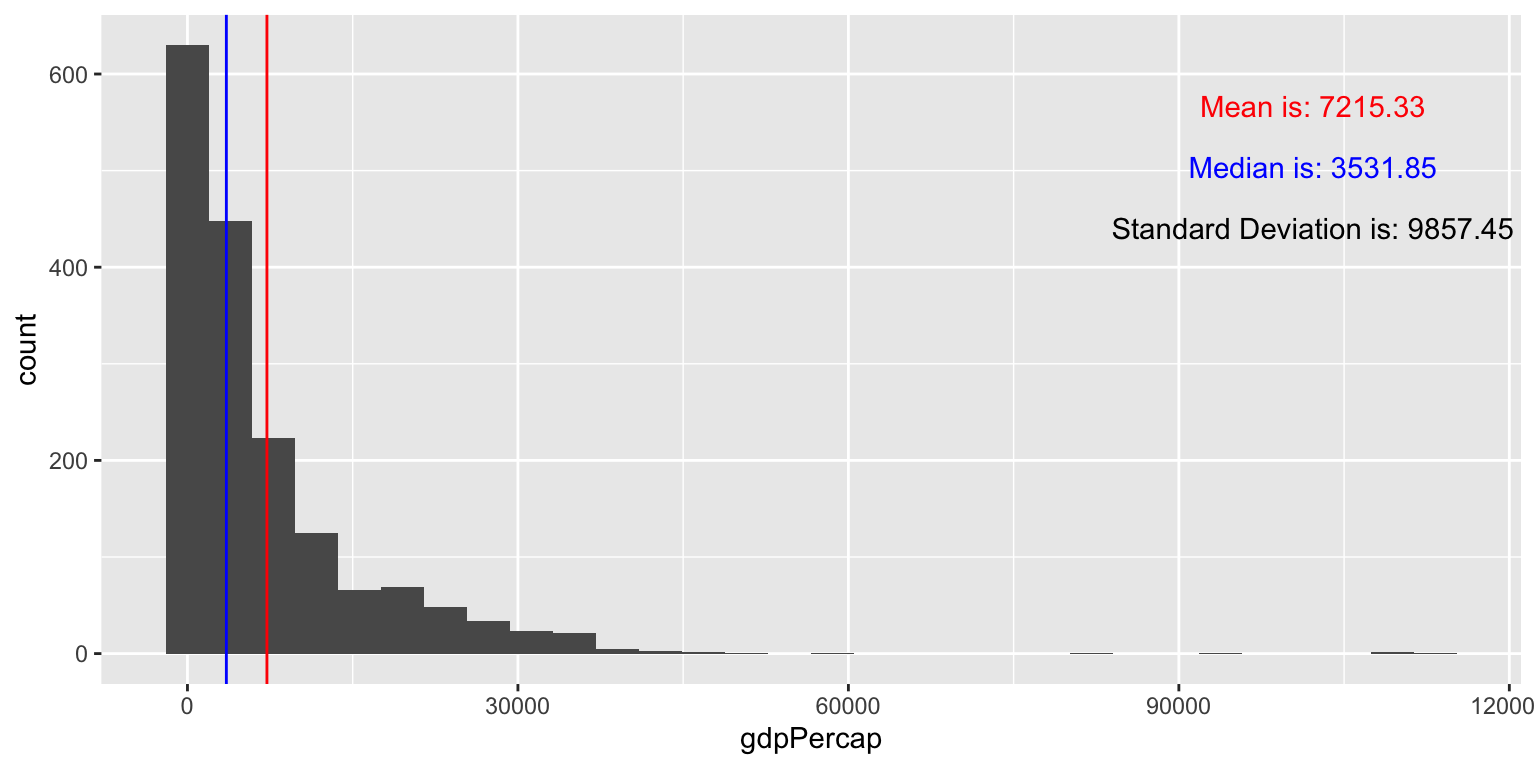
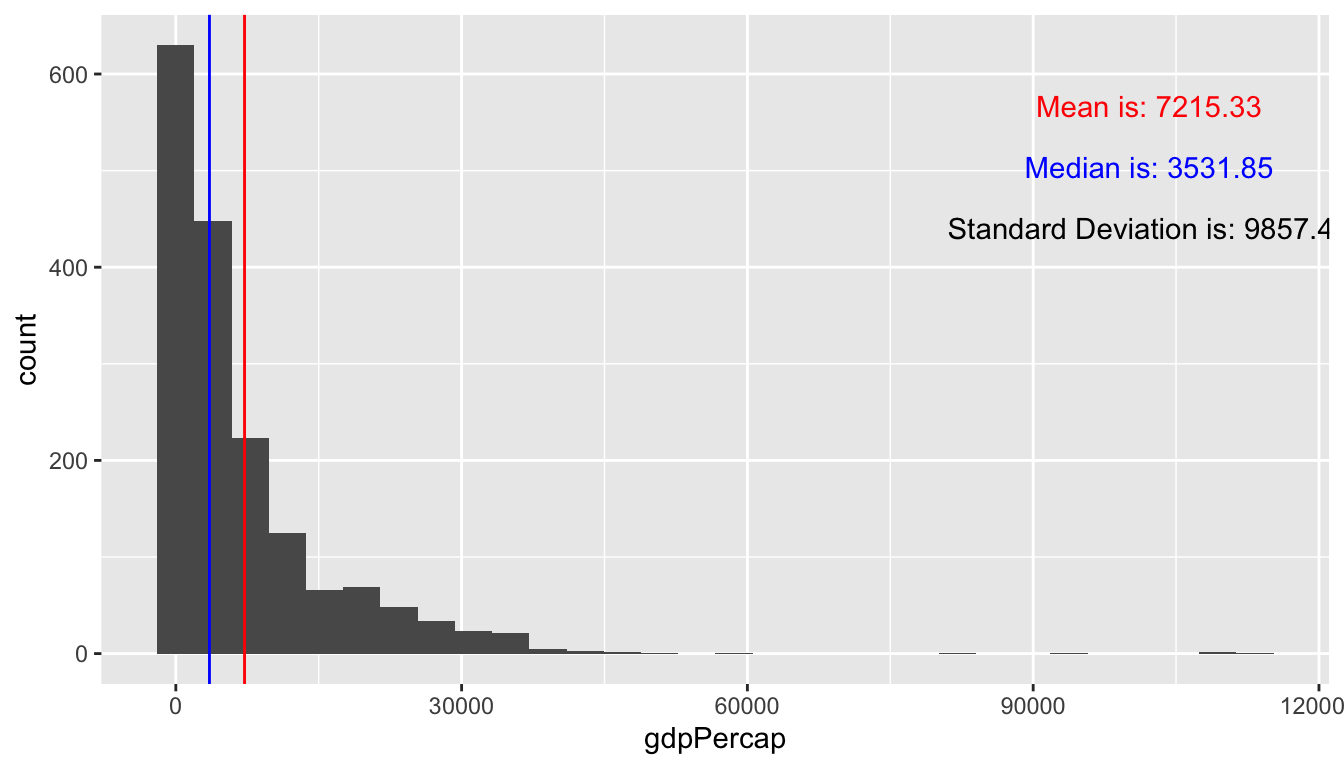
fixed subsetting errors in scatterplot, and finished vignette

diff --git a/docs/articles/ggexpress-vignette.html b/docs/articles/ggexpress-vignette.html
@@ -104,7 +104,7 @@
 <div id="data-gapminder" class="section level2">
 <h2 class="hasAnchor">
 <a href="#data-gapminder" class="anchor"></a>Data: gapminder</h2>
-<p>The <code><a href="https://rdrr.io/pkg/gapminder/man/gapminder.html">gapminder::gapminder</a></code> dataset will be used to explore the basic functionality of <code>gghist</code> and <code>ggscatter</code>.</p>
+<p>The <code><a href="https://rdrr.io/pkg/gapminder/man/gapminder.html">gapminder::gapminder</a></code> dataset will be used to explore the basic functionality of each of the plots.</p>
 <div class="sourceCode" id="cb2"><pre class="sourceCode r"><code class="sourceCode r"><span id="cb2-1"><a href="#cb2-1"></a><span class="kw"><a href="https://rdrr.io/r/base/library.html">library</a></span>(gapminder)</span>
 <span id="cb2-2"><a href="#cb2-2"></a>gapminder<span class="op">::</span>gapminder</span>
 <span id="cb2-3"><a href="#cb2-3"></a><span class="co">#&gt; # A tibble: 1,704 x 6</span></span>
@@ -124,19 +124,61 @@
 <div id="obtain-a-histogram-and-basic-summary-statistics-with-gghist" class="section level3">
 <h3 class="hasAnchor">
 <a href="#obtain-a-histogram-and-basic-summary-statistics-with-gghist" class="anchor"></a>Obtain a histogram and basic summary statistics with gghist()</h3>
+<blockquote>
 <p>This plot displays the position of the mean and median of life expectancy from the gapminder dataset. In addition, the plot also displays the value of the mean, median and standard deviation.</p>
+</blockquote>
 <div class="sourceCode" id="cb3"><pre class="sourceCode r"><code class="sourceCode r"><span id="cb3-1"><a href="#cb3-1"></a><span class="kw"><a href="../reference/gghist.html">gghist</a></span>(<span class="dt">data =</span> gapminder, <span class="dt">variable =</span> lifeExp)</span>
 <span id="cb3-2"><a href="#cb3-2"></a><span class="co">#&gt; `stat_bin()` using `bins = 30`. Pick better value with `binwidth`.</span></span>
 <span id="cb3-3"><a href="#cb3-3"></a><span class="co">#&gt; `stat_bin()` using `bins = 30`. Pick better value with `binwidth`.</span></span></code></pre></div>
 <p><img src="ggexpress-vignette_files/figure-html/gghist_lifeExp-1.png" width="576" style="display: block; margin: auto;"></p>
+<blockquote>
+<p>This plot shows the distribution of gdp per capita.</p>
+</blockquote>
 <div class="sourceCode" id="cb4"><pre class="sourceCode r"><code class="sourceCode r"><span id="cb4-1"><a href="#cb4-1"></a><span class="kw"><a href="../reference/gghist.html">gghist</a></span>(<span class="dt">data =</span> gapminder, <span class="dt">variable =</span> gdpPercap)</span>
 <span id="cb4-2"><a href="#cb4-2"></a><span class="co">#&gt; `stat_bin()` using `bins = 30`. Pick better value with `binwidth`.</span></span>
 <span id="cb4-3"><a href="#cb4-3"></a><span class="co">#&gt; `stat_bin()` using `bins = 30`. Pick better value with `binwidth`.</span></span></code></pre></div>
-<p><img src="ggexpress-vignette_files/figure-html/gghist_gdpPercap-1.png" width="768" style="display: block; margin: auto;"></p>
+<p><img src="ggexpress-vignette_files/figure-html/gghist_gdpPercap-1.png" width="672" style="display: block; margin: auto;"></p>
 </div>
-<div id="obtain-a-scatter-and-correlation-with-ggscatter" class="section level3">
+<div id="obtain-a-scatterplot-with-scatter_express" class="section level3">
 <h3 class="hasAnchor">
-<a href="#obtain-a-scatter-and-correlation-with-ggscatter" class="anchor"></a>Obtain a scatter and correlation with ggscatter()</h3>
+<a href="#obtain-a-scatterplot-with-scatter_express" class="anchor"></a>Obtain a scatterplot with scatter_express()</h3>
+<blockquote>
+<p>The <code><a href="../reference/scatter_express.html">scatter_express()</a></code> returns a basic scatterplot but also returns the correlation coefficient between the two variables.</p>
+</blockquote>
+<div class="sourceCode" id="cb5"><pre class="sourceCode r"><code class="sourceCode r"><span id="cb5-1"><a href="#cb5-1"></a><span class="kw"><a href="../reference/scatter_express.html">scatter_express</a></span>(<span class="dt">df =</span> iris, </span>
+<span id="cb5-2"><a href="#cb5-2"></a>                <span class="dt">xval =</span> Petal.Length, </span>
+<span id="cb5-3"><a href="#cb5-3"></a>                <span class="dt">yval =</span> Petal.Width)</span></code></pre></div>
+<p><img src="ggexpress-vignette_files/figure-html/scatter_iris-1.png" width="576" style="display: block; margin: auto;"></p>
+<blockquote>
+<p>In addition, scatter_express() provides the option display the data on a log transformed scale for data with non-linear relationships.</p>
+</blockquote>
+<div class="sourceCode" id="cb6"><pre class="sourceCode r"><code class="sourceCode r"><span id="cb6-1"><a href="#cb6-1"></a><span class="kw"><a href="../reference/scatter_express.html">scatter_express</a></span>(<span class="dt">df =</span> iris, </span>
+<span id="cb6-2"><a href="#cb6-2"></a>                <span class="dt">xval =</span> Sepal.Length, </span>
+<span id="cb6-3"><a href="#cb6-3"></a>                <span class="dt">yval =</span> Sepal.Width,</span>
+<span id="cb6-4"><a href="#cb6-4"></a>                <span class="dt">x_transform =</span> <span class="ot">TRUE</span>,</span>
+<span id="cb6-5"><a href="#cb6-5"></a>                <span class="dt">y_transform =</span> <span class="ot">TRUE</span>)</span></code></pre></div>
+<p><img src="ggexpress-vignette_files/figure-html/log-1.png" width="576" style="display: block; margin: auto;"></p>
+</div>
+<div id="time-series-with-ts_plot" class="section level3">
+<h3 class="hasAnchor">
+<a href="#time-series-with-ts_plot" class="anchor"></a>Time Series with ts_plot()</h3>
+<blockquote>
+<p>This function, ts_plot(), is able to take in a time stamped dataframe and convert it into a time series object. The time series is then decomposed into its trend, seasonsal and white noise components.</p>
+</blockquote>
+<div class="sourceCode" id="cb7"><pre class="sourceCode r"><code class="sourceCode r"><span id="cb7-1"><a href="#cb7-1"></a> </span>
+<span id="cb7-2"><a href="#cb7-2"></a>time &lt;-<span class="st"> </span><span class="kw"><a href="https://rdrr.io/r/base/c.html">c</a></span>(<span class="st">"1950 Q1"</span>, <span class="st">"1950 Q2"</span>, <span class="st">"1950 Q3"</span>, <span class="st">"1950 Q4"</span>, </span>
+<span id="cb7-3"><a href="#cb7-3"></a>          <span class="st">"1951 Q1"</span>, <span class="st">"1951 Q2"</span>, <span class="st">"1951 Q3"</span>, <span class="st">"1951 Q4"</span>,</span>
+<span id="cb7-4"><a href="#cb7-4"></a>          <span class="st">"1952 Q1"</span>, <span class="st">"1952 Q2"</span>, <span class="st">"1952 Q3"</span>, <span class="st">"1952 Q4"</span>)</span>
+<span id="cb7-5"><a href="#cb7-5"></a> earnings &lt;-<span class="st"> </span><span class="kw"><a href="https://rdrr.io/r/base/c.html">c</a></span>(<span class="fl">0.71</span>, <span class="fl">0.63</span>, <span class="fl">0.82</span>, <span class="fl">0.91</span>, </span>
+<span id="cb7-6"><a href="#cb7-6"></a>               <span class="fl">0.51</span>, <span class="fl">1.31</span>, <span class="fl">1.82</span>, <span class="fl">2.01</span>,</span>
+<span id="cb7-7"><a href="#cb7-7"></a>               <span class="fl">0.63</span>, <span class="fl">0.82</span>, <span class="fl">0.91</span>, <span class="fl">0.71</span>)</span>
+<span id="cb7-8"><a href="#cb7-8"></a>ts_data &lt;-<span class="st"> </span>tibble<span class="op">::</span><span class="kw"><a href="https://tibble.tidyverse.org/reference/tibble.html">tibble</a></span>(time, earnings)</span>
+<span id="cb7-9"><a href="#cb7-9"></a></span>
+<span id="cb7-10"><a href="#cb7-10"></a><span class="kw"><a href="../reference/ts_plot.html">ts_plot</a></span>(ts_data, <span class="st">"earnings"</span>, <span class="dv">4</span>)</span>
+<span id="cb7-11"><a href="#cb7-11"></a><span class="co">#&gt; Registered S3 method overwritten by 'quantmod':</span></span>
+<span id="cb7-12"><a href="#cb7-12"></a><span class="co">#&gt;   method            from</span></span>
+<span id="cb7-13"><a href="#cb7-13"></a><span class="co">#&gt;   as.zoo.data.frame zoo</span></span></code></pre></div>
+<p><img src="ggexpress-vignette_files/figure-html/ts_plot-1.png" width="576" style="display: block; margin: auto;"></p>
 </div>
 </div>
   </div>

diff --git a/docs/index.html b/docs/index.html
@@ -76,7 +76,8 @@
 <div class="page-header"><h1 class="hasAnchor">
 <a href="#ggexpress" class="anchor"></a>ggexpress</h1></div>
 <!-- badges: start -->
-<!-- badges: end -->
+
+<p><a href="https://codecov.io/gh/UBC-MDS/ggexpress"><img src="https://codecov.io/gh/UBC-MDS/ggexpress/branch/master/graph/badge.svg" alt="codecov"></a> <!-- badges: end --></p>
 <p>This package allows users to quickly create plots to facilitate exploratory data analysis along with providing additional summary statistics about the data such as mean, median, and correlation.</p>
 <div id="installation" class="section level2">
 <h2 class="hasAnchor">
@@ -104,7 +105,7 @@
 <li><p><strong>Fast Fourier transforms:</strong> This function is missing from many summary functions and can be really useful for some cases. The user will be able to input time series data and the function will automatically implement frequency analysis and provide a frequency vs amplitude plot.</p></li>
 <li><p><strong>Scatter plot:</strong> Here you will take your own spin on 2-d scatter plots. It is often the case that we don’t know the distribution of the given points. This is why this function will group the points by each of the x and y axes and provide two histograms alongside the scatter plot. This way, you will have greater intuition on the properties of the data.</p></li>
 <li><p><strong>Histogram:</strong> This function takes in a dataframe and column name and creates a histogram. In addition, summary statistics of the input variable are overlayed onto the plot (e.g. mean and median vertical lines) and the sample standard deviation.</p></li>
-<li><p><strong>Time series analysis:</strong> This is a function that takes in a local path to the time series data, decomposes the timeseries and finally visualizes the raw data along with decomposition components. Except annual time series, the function will return a graph with 4 subplots, which includes the raw data, estimated trend, seasonal/cyclic and noise components.</p></li>
+<li><p><strong>Time series analysis:</strong> This is a function that takes in a dataframe to the time series data, decomposes the timeseries and finally visualizes the raw data along with decomposition components. Except annual time series, the function will return a graph with 4 subplots, which includes the raw data, estimated trend, seasonal/cyclic and noise components.</p></li>
 </ul>
 </div>
 <div id="dependencies" class="section level3">
@@ -134,6 +135,19 @@
 <p>Creates a scatterplot and calculates correlation values for two numeric variables</p>
 <div class="sourceCode" id="cb3"><pre class="sourceCode r"><code class="sourceCode r"><span id="cb3-1"><a href="#cb3-1"></a><span class="kw"><a href="reference/scatter_express.html">scatter_express</a></span>(<span class="dt">df =</span> iris, <span class="dt">xval =</span> Sepal.Width, <span class="dt">yval =</span> Sepal.Length)</span></code></pre></div>
 <p><img src="reference/figures/README-example%202-1.png" width="100%"></p>
+<p>Plots a time series and its decomposed components</p>
+<div class="sourceCode" id="cb4"><pre class="sourceCode r"><code class="sourceCode r"><span id="cb4-1"><a href="#cb4-1"></a>time &lt;-<span class="st"> </span><span class="kw"><a href="https://rdrr.io/r/base/c.html">c</a></span>(<span class="st">"1950 Q1"</span>, <span class="st">"1950 Q2"</span>, <span class="st">"1950 Q3"</span>, <span class="st">"1950 Q4"</span>, </span>
+<span id="cb4-2"><a href="#cb4-2"></a>           <span class="st">"1951 Q1"</span>, <span class="st">"1951 Q2"</span>, <span class="st">"1951 Q3"</span>, <span class="st">"1951 Q4"</span>,</span>
+<span id="cb4-3"><a href="#cb4-3"></a>           <span class="st">"1952 Q1"</span>, <span class="st">"1952 Q2"</span>, <span class="st">"1952 Q3"</span>, <span class="st">"1952 Q4"</span>)</span>
+<span id="cb4-4"><a href="#cb4-4"></a>earnings &lt;-<span class="st"> </span><span class="kw"><a href="https://rdrr.io/r/base/c.html">c</a></span>(<span class="fl">0.71</span>, <span class="fl">0.63</span>, <span class="fl">0.82</span>, <span class="fl">0.21</span>, </span>
+<span id="cb4-5"><a href="#cb4-5"></a>              <span class="fl">1.21</span>, <span class="fl">1.03</span>, <span class="fl">2.82</span>, <span class="fl">0.51</span>,</span>
+<span id="cb4-6"><a href="#cb4-6"></a>              <span class="fl">0.79</span>, <span class="fl">0.92</span>, <span class="fl">1.06</span>, <span class="fl">0.41</span>)</span>
+<span id="cb4-7"><a href="#cb4-7"></a> ts_data &lt;-<span class="st"> </span>tibble<span class="op">::</span><span class="kw"><a href="https://tibble.tidyverse.org/reference/tibble.html">tibble</a></span>(time, earnings)</span>
+<span id="cb4-8"><a href="#cb4-8"></a> <span class="kw"><a href="reference/ts_plot.html">ts_plot</a></span>(<span class="dt">data=</span>ts_data, <span class="dt">col=</span><span class="st">"earnings"</span>, <span class="dt">frequency=</span><span class="dv">4</span>)</span>
+<span id="cb4-9"><a href="#cb4-9"></a><span class="co">#&gt; Registered S3 method overwritten by 'quantmod':</span></span>
+<span id="cb4-10"><a href="#cb4-10"></a><span class="co">#&gt;   method            from</span></span>
+<span id="cb4-11"><a href="#cb4-11"></a><span class="co">#&gt;   as.zoo.data.frame zoo</span></span></code></pre></div>
+<p><img src="reference/figures/README-ts_plot%20example-1.png" width="100%"></p>
 </div>
 </div>
 
@@ -160,7 +174,13 @@
 </ul>
 </div>
 
-  </div>
+  <div class="dev-status">
+<h2>Dev status</h2>
+<ul class="list-unstyled">
+<li><a href="https://github.com/UBC-MDS/ggexpress/actions"><img src="https://github.com/UBC-MDS/ggexpress/workflows/R-CMD-check/badge.svg" alt="R build status"></a></li>
+</ul>
+</div>
+</div>
 </div>
 
 

diff --git a/docs/reference/ts_plot.html b/docs/reference/ts_plot.html
@@ -36,7 +36,7 @@
 
 
 <meta property="og:title" content="Time series decomposition and plot — ts_plot" />
-<meta property="og:description" content="Convert csv file into a time series object, decompose it into trend, seasonality/cyclicity
+<meta property="og:description" content="Convert a dataframe into a time series object, decompose it into trend, seasonality/cyclicity
 and noise/remainder/error and plot the raw data and the decomposed components.
 If the time series can't be decomposed, the function will just return the line chart of the raw data." />
 <meta name="twitter:card" content="summary" />
@@ -120,7 +120,7 @@ If the time series can't be decomposed, the function will just return the line c
     </div>
 
     <div class="ref-description">
-    <p>Convert csv file into a time series object, decompose it into trend, seasonality/cyclicity
+    <p>Convert a dataframe into a time series object, decompose it into trend, seasonality/cyclicity
 and noise/remainder/error and plot the raw data and the decomposed components.
 If the time series can't be decomposed, the function will just return the line chart of the raw data.</p>
     </div>
@@ -132,7 +132,7 @@ If the time series can't be decomposed, the function will just return the line c
     <colgroup><col class="name" /><col class="desc" /></colgroup>
     <tr>
       <th>data</th>
-      <td><p>str: the path of the csv file</p></td>
+      <td><p>dataframe: should be data.frame or tibble</p></td>
     </tr>
     <tr>
       <th>col</th>
@@ -149,7 +149,13 @@ If the time series can't be decomposed, the function will just return the line c
     <p>ggplot Object</p>
 
     <h2 class="hasAnchor" id="examples"><a class="anchor" href="#examples"></a>Examples</h2>
-    <pre class="examples"><div class='input'><span class='fu'>ts_plot</span>(<span class='st'>"~/Desktop/ts4_jjshares.csv"</span>, <span class='st'>"earnings"</span>, <span class='fl'>4</span>)</div><div class='output co'>#&gt; <span class='error'>Error: '~/Desktop/ts4_jjshares.csv' does not exist.</span></div></pre>
+    <pre class="examples"><div class='input'><span class='no'>time</span> <span class='kw'>&lt;-</span> <span class='fu'><a href='https://rdrr.io/r/base/c.html'>c</a></span>(<span class='st'>"1950 Q1"</span>, <span class='st'>"1950 Q2"</span>, <span class='st'>"1950 Q3"</span>, <span class='st'>"1950 Q4"</span>,
+          <span class='st'>"1951 Q1"</span>, <span class='st'>"1951 Q2"</span>, <span class='st'>"1951 Q3"</span>, <span class='st'>"1951 Q4"</span>)
+<span class='no'>earnings</span> <span class='kw'>&lt;-</span> <span class='fu'><a href='https://rdrr.io/r/base/c.html'>c</a></span>(<span class='fl'>0.71</span>, <span class='fl'>0.63</span>, <span class='fl'>0.82</span>, <span class='fl'>0.91</span>, <span class='fl'>0.71</span>, <span class='fl'>0.63</span>, <span class='fl'>0.82</span>, <span class='fl'>0.91</span>)
+<span class='no'>ts_data</span> <span class='kw'>&lt;-</span> <span class='kw pkg'>tibble</span><span class='kw ns'>::</span><span class='fu'><a href='https://tibble.tidyverse.org/reference/tibble.html'>tibble</a></span>(<span class='no'>time</span>, <span class='no'>earnings</span>)
+<span class='fu'>ts_plot</span>(<span class='kw'>data</span><span class='kw'>=</span><span class='no'>ts_data</span>, <span class='kw'>col</span><span class='kw'>=</span><span class='st'>"earnings"</span>, <span class='kw'>frequency</span><span class='kw'>=</span><span class='fl'>4</span>)</div><div class='output co'>#&gt; <span class='message'>Registered S3 method overwritten by 'quantmod':</span>
+#&gt; <span class='message'>  method            from</span>
+#&gt; <span class='message'>  as.zoo.data.frame zoo </span></div><div class='img'><img src='ts_plot-1.png' alt='' width='700' height='433' /></div></pre>
   </div>
   <div class="col-md-3 hidden-xs hidden-sm" id="sidebar">
     <h2>Contents</h2>

diff --git a/docs/reference/fourier_transform.html b/docs/reference/fourier_transform.html
@@ -146,9 +146,12 @@ want to apply Fourier transform to</p></td>
     <p>a ggplot2 line plot of frequency vs amplitude of the data inputed</p>
 
     <h2 class="hasAnchor" id="examples"><a class="anchor" href="#examples"></a>Examples</h2>
-    <pre class="examples"><div class='input'><span class='fu'>fourier_transform</span>(<span class='kw'>data</span> <span class='kw'>=</span> <span class='no'>my_data</span>,
-                  <span class='kw'>time_col</span> <span class='kw'>=</span> <span class='st'>'time_series'</span>,
-                  <span class='kw'>data_col</span> <span class='kw'>=</span> <span class='st'>'signal'</span>)</div><div class='output co'>#&gt; <span class='error'>Error in loadNamespace(name): there is no package called ‘test_that’</span></div><div class='input'>
+    <pre class="examples"><div class='input'><span class='no'>my_data</span> <span class='kw'>=</span> <span class='kw pkg'>tibble</span><span class='kw ns'>::</span><span class='fu'><a href='https://tibble.tidyverse.org/reference/tibble.html'>tibble</a></span>(<span class='kw'>time_series</span> <span class='kw'>=</span>  <span class='fu'><a href='https://rdrr.io/r/base/c.html'>c</a></span>(<span class='fl'>0</span>, <span class='fl'>1</span>, <span class='fl'>2</span>, <span class='fl'>3</span>), <span class='kw'>signal</span> <span class='kw'>=</span> <span class='fu'><a href='https://rdrr.io/r/base/c.html'>c</a></span>(<span class='fl'>2</span>, <span class='fl'>3</span>, <span class='fl'>4</span>, <span class='fl'>6</span>))
+<span class='fu'>fourier_transform</span>(<span class='kw'>data</span> <span class='kw'>=</span> <span class='no'>my_data</span>,
+                  <span class='kw'>time_col</span> <span class='kw'>=</span> <span class='st'>"time_series"</span>,
+                  <span class='kw'>data_col</span> <span class='kw'>=</span> <span class='st'>"signal"</span>)</div><div class='output co'>#&gt; <span class='error'>Error: Tibble columns must have consistent lengths, only values of length one are recycled:</span>
+#&gt; <span class='error'>* Length 2: Column `Frequency`</span>
+#&gt; <span class='error'>* Length 3: Column `Amplitude`</span></div><div class='input'>
 </div></pre>
   </div>
   <div class="col-md-3 hidden-xs hidden-sm" id="sidebar">

diff --git a/docs/reference/scatter_express.html b/docs/reference/scatter_express.html
@@ -161,7 +161,7 @@ function will control whether correlational values and log transformations are c
     <p>ggplot Object</p>
 
     <h2 class="hasAnchor" id="examples"><a class="anchor" href="#examples"></a>Examples</h2>
-    <pre class="examples"><div class='input'><span class='fu'>scatter_express</span>(<span class='no'>iris</span>, <span class='no'>Sepal.Width</span>, <span class='no'>Petal.Length</span>)</div><div class='img'><img src='scatter_express-1.png' alt='' width='700' height='433' /></div></pre>
+    <pre class="examples"><div class='input'><span class='fu'>scatter_express</span>(<span class='no'>iris</span>, <span class='no'>Sepal.Width</span>, <span class='no'>Sepal.Length</span>)</div><div class='img'><img src='scatter_express-1.png' alt='' width='700' height='433' /></div></pre>
   </div>
   <div class="col-md-3 hidden-xs hidden-sm" id="sidebar">
     <h2>Contents</h2>
